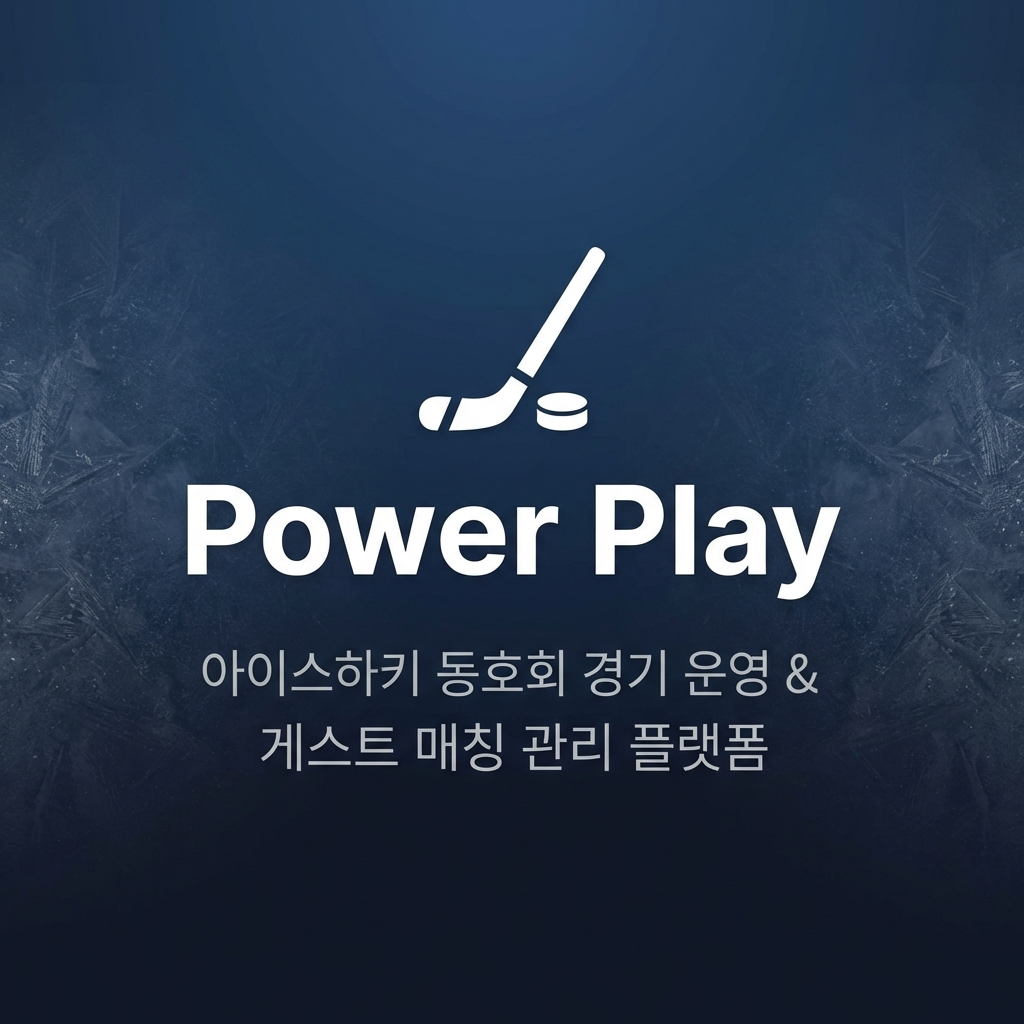
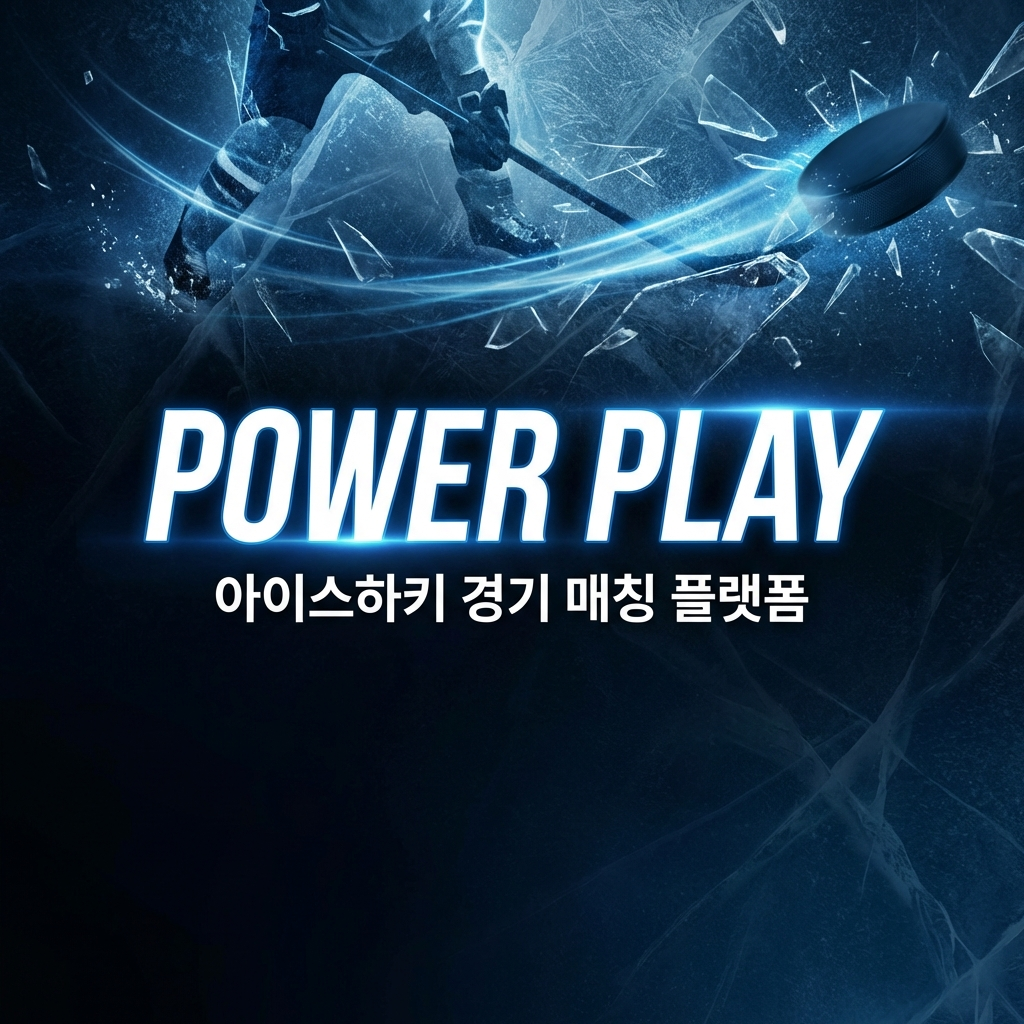
feat: powerplay.kr 도입

diff --git a/src/app/[locale]/layout.tsx b/src/app/[locale]/layout.tsx
@@ -21,7 +21,7 @@ export function generateStaticParams() {
   return routing.locales.map((locale) => ({ locale }));
 }
 
-const siteUrl = process.env.NEXT_PUBLIC_SITE_URL || "https://pphockey.vercel.app";
+const siteUrl = process.env.NEXT_PUBLIC_SITE_URL || "https://powerplay.kr";
 
 export async function generateMetadata({
   params,

diff --git a/src/app/robots.ts b/src/app/robots.ts
@@ -1,7 +1,7 @@
 import { MetadataRoute } from "next";
 
 export default function robots(): MetadataRoute.Robots {
-  const baseUrl = process.env.NEXT_PUBLIC_SITE_URL || "https://powerplay.vercel.app";
+  const baseUrl = process.env.NEXT_PUBLIC_SITE_URL || "https://powerplay.kr";
 
   return {
     rules: [

diff --git a/src/app/sitemap.ts b/src/app/sitemap.ts
@@ -1,7 +1,7 @@
 import { MetadataRoute } from "next";
 
 export default function sitemap(): MetadataRoute.Sitemap {
-  const baseUrl = process.env.NEXT_PUBLIC_SITE_URL || "https://powerplay.vercel.app";
+  const baseUrl = process.env.NEXT_PUBLIC_SITE_URL || "https://powerplay.kr";
 
   return [
     {

diff --git a/AGENTS.md b/AGENTS.md
@@ -442,6 +442,20 @@ UPDATE profiles SET role = 'superuser' WHERE email = 'your-email@example.com';
 
 ---
 
+### 🟢 P4. SEO 및 도메인 변경 (Domain Migration)
+
+**요청사항:**
+- "도메인도 https://powerplay.kr/ 로 신규로 변경했어"
+- 검색엔진 최적화(SEO) 및 OG 이미지 교체
+
+#### 구현 상세:
+
+| 항목 | 상세 | 상태 |
+|------|------|------|
+| **도메인 변경** | 코드 내 Fallback URL 변경 (`pphockey` -> `powerplay.kr`) | `[x]` |
+| **SEO 설정** | `src/app/robots.ts`, `sitemap.ts`, `layout.tsx` 업데이트 | `[x]` |
+| **OG 이미지** | 신규 디자인(한국어 부제) 적용 (`public/og-image.png`) | `[x]` |
+
 ### 📌 구현 우선순위 요약
 
 ```
